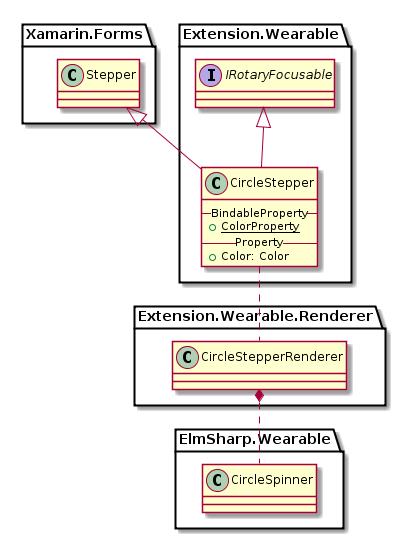
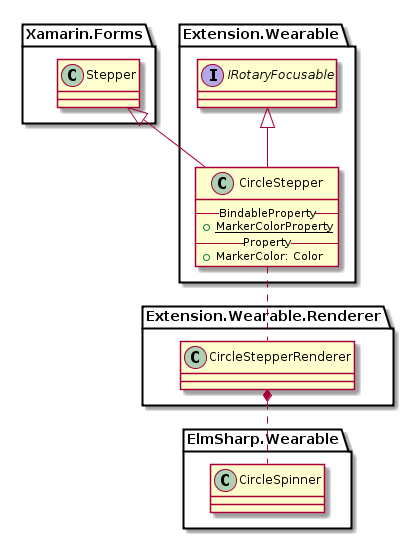
[CircleDateTimeSelector/CircleStepper] change name of Color property to MarkerColor

diff --git a/WearableUIGallery/WearableUIGallery/WearableUIGallery/TC/TCCircleStepper.xaml b/WearableUIGallery/WearableUIGallery/WearableUIGallery/TC/TCCircleStepper.xaml
@@ -65,9 +65,9 @@
                 Grid.Column="0"
                 Focused="OnFocusedHr"
                 HorizontalOptions="Center"
+                MarkerColor="Coral"
                 Maximum="23"
                 Minimum="0"
-                Color="Coral"
                 Value="0" />
             <Label
                 Grid.Row="1"
@@ -81,9 +81,9 @@
                 Grid.Column="2"
                 Focused="OnFocusedMm"
                 HorizontalOptions="Center"
+                MarkerColor="Blue"
                 Maximum="59"
                 Minimum="0"
-                Color="Blue"
                 Value="0" />
             <Label
                 Grid.Row="1"
@@ -97,9 +97,9 @@
                 Grid.Column="4"
                 Focused="OnFocusedSec"
                 HorizontalOptions="Center"
+                MarkerColor="DarkRed"
                 Maximum="59"
                 Minimum="0"
-                Color="DarkRed"
                 Value="0" />
         </Grid>
     </w:CirclePage.Content>

diff --git a/Xamarin.Forms.CircularUI/CircleDateTimeSelector.cs b/Xamarin.Forms.CircularUI/CircleDateTimeSelector.cs
@@ -6,13 +6,13 @@ namespace Xamarin.Forms.CircularUI
 {
     public class CircleDateTimeSelector : Xamarin.Forms.View, IRotaryFocusable
     {
-        public static readonly BindableProperty ColorProperty = BindableProperty.Create(nameof(Color), typeof(Color), typeof(CircleDateTimeSelector), Color.Default);
+        public static readonly BindableProperty MarkerColorProperty = BindableProperty.Create(nameof(MarkerColor), typeof(Color), typeof(CircleDateTimeSelector), Color.Default);
         public static readonly BindableProperty ValueTypeProperty = BindableProperty.Create(nameof(ValueType), typeof(DateTimeType), typeof(CircleDateTimeSelector), DateTimeType.Date);
         public static readonly BindableProperty DateTimeProperty = BindableProperty.Create(nameof(DateTime), typeof(DateTime), typeof(CircleDateTimeSelector), DateTime.Now);
         public static readonly BindableProperty MaximumDateProperty = BindableProperty.Create(nameof(MaximumDate), typeof(DateTime), typeof(CircleDateTimeSelector), DateTime.Now + TimeSpan.FromDays(3650));
         public static readonly BindableProperty MinimumDateProperty = BindableProperty.Create(nameof(MinimumDate), typeof(DateTime), typeof(CircleDateTimeSelector), new DateTime(1900, 1, 1));
 
-        public Color Color { get => (Color)GetValue(ColorProperty); set => SetValue(ColorProperty, value); }
+        public Color MarkerColor { get => (Color)GetValue(MarkerColorProperty); set => SetValue(MarkerColorProperty, value); }
         public DateTimeType ValueType { get => (DateTimeType)GetValue(ValueTypeProperty); set => SetValue(ValueTypeProperty, value); }
         public DateTime DateTime { get => (DateTime)GetValue(DateTimeProperty); set => SetValue(DateTimeProperty, value); }
         public DateTime MaximumDate { get => (DateTime)GetValue(MaximumDateProperty); set => SetValue(MaximumDateProperty, value); }

diff --git a/Xamarin.Forms.CircularUI.Renderer/CircleDateTimeSelectorRenderer.cs b/Xamarin.Forms.CircularUI.Renderer/CircleDateTimeSelectorRenderer.cs
@@ -16,7 +16,7 @@ namespace Xamarin.Forms.CircularUI.Renderer
     {
         public CircleDateTimeSelectorRenderer()
         {
-            RegisterPropertyHandler(CircleDateTimeSelector.ColorProperty, UpdateColor);
+            RegisterPropertyHandler(CircleDateTimeSelector.MarkerColorProperty, UpdateMarkerColor);
             RegisterPropertyHandler(CircleDateTimeSelector.ValueTypeProperty, UpdateValueType);
             RegisterPropertyHandler(CircleDateTimeSelector.DateTimeProperty, UpdateDateTime);
             RegisterPropertyHandler(CircleDateTimeSelector.MaximumDateProperty, UpdateMaximum);
@@ -94,11 +94,11 @@ namespace Xamarin.Forms.CircularUI.Renderer
             }
         }
 
-        void UpdateColor(bool initialize)
+        void UpdateMarkerColor(bool initialize)
         {
-            if (null != Control && null != Element && Element.Color != Color.Default)
+            if (null != Control && null != Element && Element.MarkerColor != Color.Default)
             {
-                Control.MarkerColor = Element.Color.ToNative();
+                Control.MarkerColor = Element.MarkerColor.ToNative();
                 Console.WriteLine($"CircleDateTimeSelector.MarkerColor = {Control.MarkerColor}");
             }
         }

diff --git a/Xamarin.Forms.CircularUI.Renderer/CircleStepperRenderer.cs b/Xamarin.Forms.CircularUI.Renderer/CircleStepperRenderer.cs
@@ -12,7 +12,7 @@ namespace Xamarin.Forms.CircularUI.Renderer
     {
         public CircleStepperRenderer()
         {
-            RegisterPropertyHandler(CircleStepper.ColorProperty, UpdateColor);
+            RegisterPropertyHandler(CircleStepper.MarkerColorProperty, UpdateMarkerColor);
             RegisterPropertyHandler(Stepper.ValueProperty, UpdateValue);
             RegisterPropertyHandler(Stepper.MinimumProperty, UpdateMinimum);
             RegisterPropertyHandler(Stepper.MaximumProperty, UpdateMaximum);
@@ -89,11 +89,11 @@ namespace Xamarin.Forms.CircularUI.Renderer
             return new ESize(360, 110);
         }
 
-        void UpdateColor(bool initialize)
+        void UpdateMarkerColor(bool initialize)
         {
-            if (null != Control && null != Element && Element.Color != Color.Default)
+            if (null != Control && null != Element && Element.MarkerColor != Color.Default)
             {
-                Control.MarkerColor = Element.Color.ToNative();
+                Control.MarkerColor = Element.MarkerColor.ToNative();
                 Console.WriteLine($"CircleStepper.MarkerColor = {Control.MarkerColor}");
             }
         }

diff --git a/Xamarin.Forms.CircularUI/CircleStepper.cs b/Xamarin.Forms.CircularUI/CircleStepper.cs
@@ -2,9 +2,9 @@
 {
     public class CircleStepper : Xamarin.Forms.Stepper, IRotaryFocusable
     {
-        public static readonly BindableProperty ColorProperty = BindableProperty.Create(nameof(Color), typeof(Color), typeof(CircleStepper), Color.Default);
+        public static readonly BindableProperty MarkerColorProperty = BindableProperty.Create(nameof(MarkerColor), typeof(Color), typeof(CircleStepper), Color.Default);
 
-        public Color Color { get => (Color)GetValue(ColorProperty); set => SetValue(ColorProperty, value); }
+        public Color MarkerColor { get => (Color)GetValue(MarkerColorProperty); set => SetValue(MarkerColorProperty, value); }
 
         public event RotaryEventHandler Rotated;
     }

diff --git a/doc/design/README.onepage.md b/doc/design/README.onepage.md
@@ -87,13 +87,13 @@ CircleDatePicker와 `CircleTimePicker`의 Class Diagram은 아래와 같다.
  ```C#
  public class CircleDateTimeSelector : Xamarin.Forms.View, IRotaryEventConsumer
  {
-     public static readonly BindableProperty ColorProperty; 
+     public static readonly BindableProperty MarkerColorProperty;
      public static readonly BindableProperty ValueTypeProperty; 
      public static readonly BindableProperty DateTimeProperty;
      public static readonly BindableProperty MaximumDateProperty;
      public static readonly BindableProperty MinimumDateProperty;
 
-     public Color Color { get; set; }
+     public Color MarkerColor { get; set; }
      public DateTimeType ValueType { get; set; }
      public DateTime DateTime { get; set; }
      public DateTime MaximumDate { get; set; }
@@ -125,7 +125,7 @@ CircleDatePicker와 `CircleTimePicker`의 Class Diagram은 아래와 같다.
 `ValueType` Property를 변경하여 원하는 값을 선택할 수 있다.
 `CirclePage`의 `RotaryEventConsumer` property에 Set되면 Bezel Action에 반응할 수 있게 된다.
 
-* Color : `CircleSurface` 상에서 값을 선택하기 위한 Marker의 색을 변경한다.
+* MarkerColor : `CircleSurface` 상에서 값을 선택하기 위한 Marker의 색을 변경한다.
 * ValueType : Time이면 UI가 시간 선택이 가능하게, Date라면 날짜 선택이 가능하게 변경된다.
 * DateTime : 날짜/시간을 가져오거나, 설정한다.
 * MaximumDate : ValueType이 Date일때, 최대 날짜를 가져오거나 설정한다.
@@ -334,14 +334,14 @@ public class CircleSliderSurfaceItem : ICircleSurfaceItem
  ```C#
  public class CircleStepper : Xamarin.Forms.Stepper, IRotaryEventConsumer
  {
-     public static readonly BindableProperty ColorProperty;
+     public static readonly BindableProperty MarkerColorProperty;
 
-     public Color Color { get; set; }
+     public Color MarkerColor { get; set; }
  }
  ```
 기존 `Stepper`에 Marker color만 추가되었습니다. 이 View의 Value를 변경하기 위해 Bezel Action을 하기 위해서는 `CirclePage`의 `RotaryEventConsumer` property에 set 되어야 한다.
 
-* Color : Bezel Action시에 움직이는 Marker의 색
+* MarkerColor : Bezel Action시에 움직이는 Marker의 색
 
 `CircleStepper`는 ElmSharp Level에서 다음과 같은 Scene Graph로 표현된다.
 

diff --git a/doc/design/part02.CircleDateTimeSelector.md b/doc/design/part02.CircleDateTimeSelector.md
@@ -19,13 +19,13 @@ CircleDatePicker와 `CircleTimePicker`의 Class Diagram은 아래와 같다.
  ```C#
  public class CircleDateTimeSelector : Xamarin.Forms.View, IRotaryEventConsumer
  {
-     public static readonly BindableProperty ColorProperty; 
-     public static readonly BindableProperty ValueTypeProperty; 
+     public static readonly BindableProperty MarkerColorProperty;
+     public static readonly BindableProperty ValueTypeProperty;
      public static readonly BindableProperty DateTimeProperty;
      public static readonly BindableProperty MaximumDateProperty;
      public static readonly BindableProperty MinimumDateProperty;
 
-     public Color Color { get; set; }
+     public Color MarkerColor { get; set; }
      public DateTimeType ValueType { get; set; }
      public DateTime DateTime { get; set; }
      public DateTime MaximumDate { get; set; }
@@ -57,7 +57,7 @@ CircleDatePicker와 `CircleTimePicker`의 Class Diagram은 아래와 같다.
 `ValueType` Property를 변경하여 원하는 값을 선택할 수 있다.
 `CirclePage`의 `RotaryEventConsumer` property에 Set되면 Bezel Action에 반응할 수 있게 된다.
 
-* Color : `CircleSurface` 상에서 값을 선택하기 위한 Marker의 색을 변경한다.
+* MarkerColor : `CircleSurface` 상에서 값을 선택하기 위한 Marker의 색을 변경한다.
 * ValueType : Time이면 UI가 시간 선택이 가능하게, Date라면 날짜 선택이 가능하게 변경된다.
 * DateTime : 날짜/시간을 가져오거나, 설정한다.
 * MaximumDate : ValueType이 Date일때, 최대 날짜를 가져오거나 설정한다.

diff --git a/doc/design/part07.CircleStepper.md b/doc/design/part07.CircleStepper.md
@@ -14,14 +14,14 @@
  ```C#
  public class CircleStepper : Xamarin.Forms.Stepper, IRotaryEventConsumer
  {
-     public static readonly BindableProperty ColorProperty;
+     public static readonly BindableProperty MarkerColorProperty;
 
-     public Color Color { get; set; }
+     public Color MarkerColor { get; set; }
  }
  ```
 기존 `Stepper`에 Marker color만 추가되었습니다. 이 View의 Value를 변경하기 위해 Bezel Action을 하기 위해서는 `CirclePage`의 `RotaryEventConsumer` property에 set 되어야 한다.
 
-* Color : Bezel Action시에 움직이는 Marker의 색
+* MarkerColor : Bezel Action시에 움직이는 Marker의 색
 
 `CircleStepper`는 ElmSharp Level에서 다음과 같은 Scene Graph로 표현된다.
 
